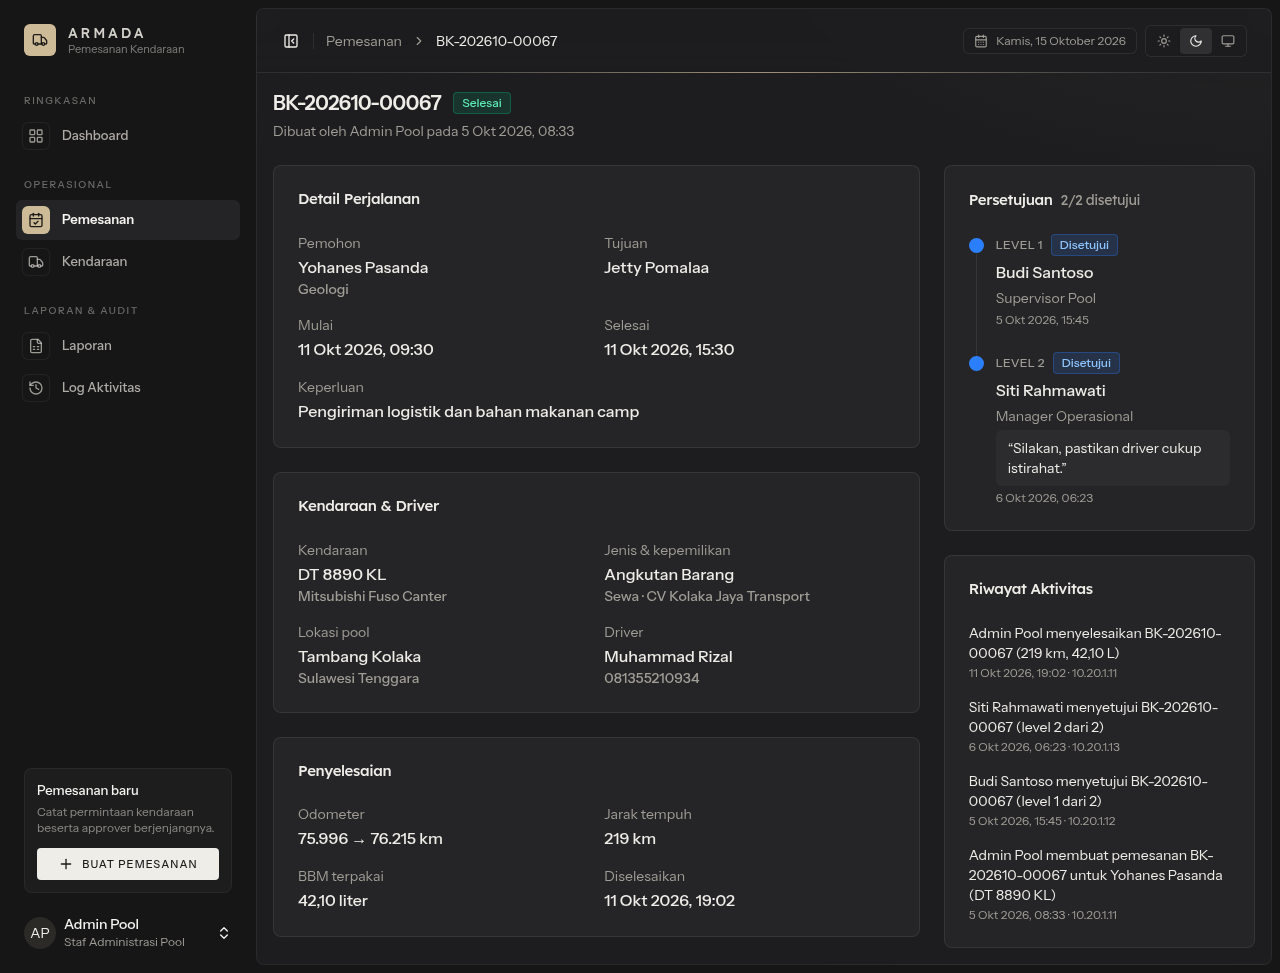
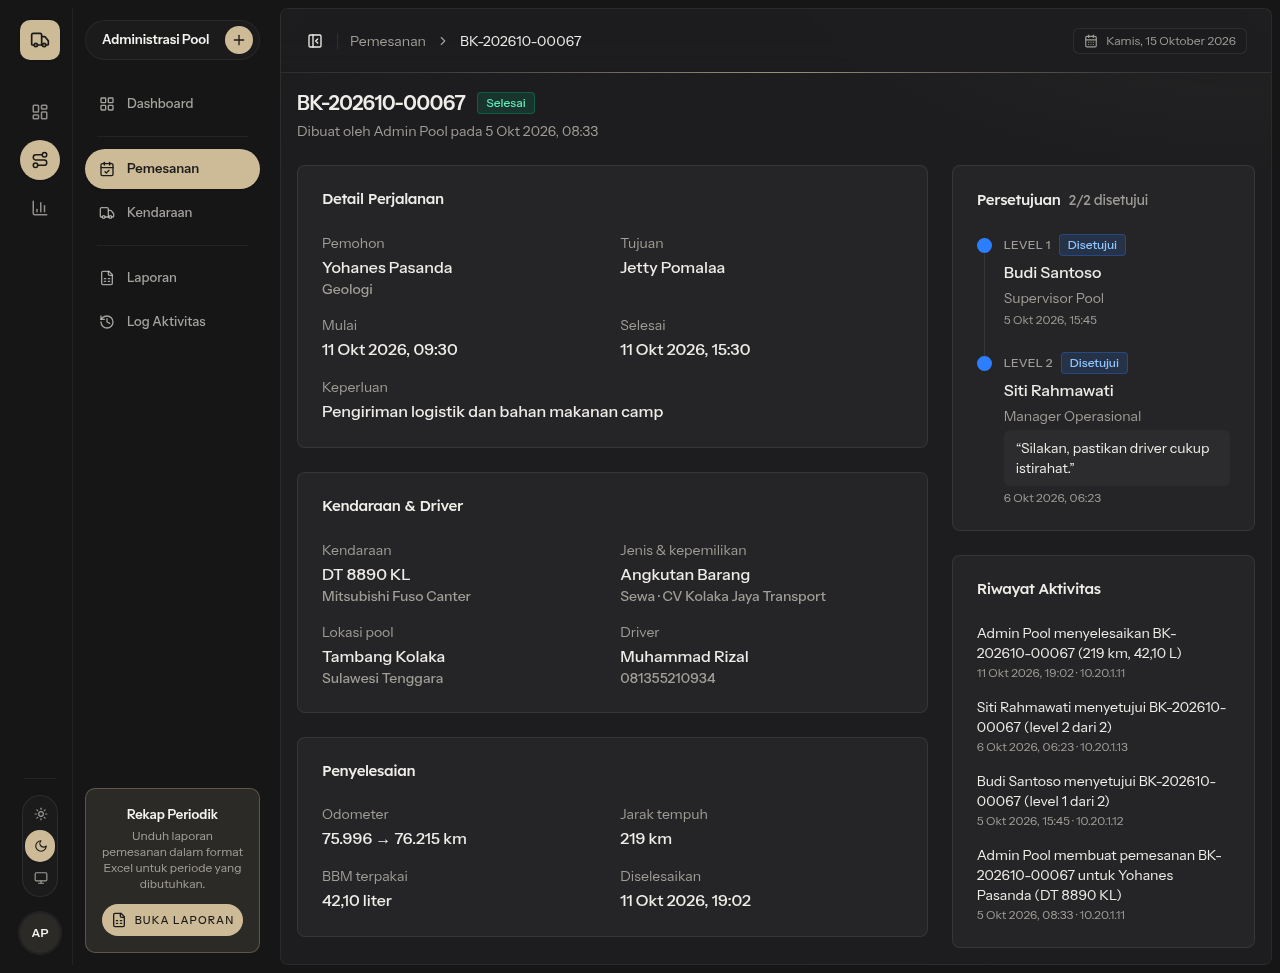
docs: align the readme and screenshots with the new sidebar and labels

diff --git a/README.md b/README.md
@@ -10,7 +10,7 @@ Dibuat sebagai technical test Fullstack Developer (Intern) dengan Laravel 13, In
 
 - **Dua role:** admin (pool) dan approver. Akun dibuat lewat seeder; registrasi publik tidak tersedia.
 - **Pemesanan** dengan approver berjenjang 2–5 level. Kendaraan yang sedang perawatan dan driver nonaktif ditolak, dan jadwal yang bentrok dengan pemesanan lain ditolak dengan pesan yang menyebut kode booking yang bentrok. Kode otomatis `BK-YYYYMM-NNNNN`.
-- **Persetujuan berjenjang:** inbox approver dengan tab _Menunggu Saya_, _Antrian_, dan _Riwayat_; setujui (catatan opsional) atau tolak (catatan wajib); badge jumlah approval yang menunggu di menu.
+- **Persetujuan berjenjang:** inbox approver dengan tab _Menunggu Saya_, _Antrean_, dan _Riwayat_; setujui (catatan opsional) atau tolak (catatan wajib); badge jumlah approval yang menunggu di menu.
 - **Pembatalan** dengan alasan, dan **penyelesaian** dengan odometer dan BBM yang sekaligus memperbarui odometer kendaraan.
 - **Dashboard** admin dan approver dengan filter tahun dan region: pemesanan per bulan per status, 10 kendaraan paling sering dipakai, komposisi jenis/kepemilikan, jarak tempuh dan konsumsi BBM per bulan, serta kendaraan yang perlu service. Setiap grafik juga punya tampilan tabel.
 - **Laporan periodik** dengan preset periode dan **export Excel** 2 sheet (_Pemesanan_ dan _Ringkasan_).
@@ -119,7 +119,7 @@ Data demo bisa direset kapan saja dengan `php artisan migrate:fresh --seed`. Tan
 
 | Menu              | Fungsi                                                                                                                                                                                                                                                                                                                                                                                                                              |
 | ----------------- | ----------------------------------------------------------------------------------------------------------------------------------------------------------------------------------------------------------------------------------------------------------------------------------------------------------------------------------------------------------------------------------------------------------------------------------- |
-| **Dashboard**     | Kartu ringkasan (total, menunggu persetujuan, disetujui, selesai bulan ini, kendaraan tersedia, service ≤ 14 hari), empat grafik, dan tabel kendaraan yang perlu service. Filter tahun dan region; ikon tabel di setiap kartu grafik menampilkan datanya sebagai tabel.                                                                                                                                                             |
+| **Dashboard**     | Kartu ringkasan (total, menunggu persetujuan, disetujui, selesai bulan ini, kendaraan tersedia, jatuh tempo servis), empat grafik, dan tabel jadwal servis terdekat. Filter tahun dan region; ikon tabel di setiap kartu grafik menampilkan datanya sebagai tabel.                                                                                                                                                                  |
 | **Pemesanan**     | Daftar dengan pencarian (kode, pemohon, plat), filter status, jenis kendaraan, region, dan rentang tanggal mulai. **Buat Pemesanan** membuka form 4 bagian: Data Pemohon, Detail Perjalanan, Kendaraan & Driver, Approver Berjenjang (tambah, hapus, naik/turun level). Halaman detail menampilkan timeline persetujuan, riwayat aktivitas, serta tombol **Batalkan** (dengan alasan) dan **Selesaikan** (dengan odometer dan BBM). |
 | **Laporan**       | Rentang tanggal wajib dengan preset _Bulan ini_, _Bulan lalu_, _3 bulan terakhir_, _Tahun ini_; filter status, jenis, region; kartu ringkasan; tabel pratinjau. **Export Excel** mengunduh `laporan-pemesanan_{dari}_{sampai}.xlsx` dengan filter yang sama.                                                                                                                                                                        |
 | **Log Aktivitas** | Filter pencarian, user, aksi, dan tanggal. Klik baris untuk melihat properties (JSON), user agent, dan tautan ke pemesanannya.                                                                                                                                                                                                                                                                                                      |
@@ -129,8 +129,8 @@ Data demo bisa direset kapan saja dengan `php artisan migrate:fresh --seed`. Tan
 
 | Menu                 | Fungsi                                                                                                                                                                                                                                                                      |
 | -------------------- | --------------------------------------------------------------------------------------------------------------------------------------------------------------------------------------------------------------------------------------------------------------------------- |
-| **Dashboard**        | Kartu _menunggu giliran saya_, _sudah saya setujui_, _sudah saya tolak_; lima approval terbaru yang menunggu; grafik pemesanan per bulan dan kendaraan terpopuler.                                                                                                          |
-| **Persetujuan**      | Tab _Menunggu Saya_ (giliran saat ini, jadwal terdekat lebih dulu), _Antrian_ (menunggu level sebelumnya), dan _Riwayat_. Tombol **Setujui** (catatan opsional) dan **Tolak** (catatan wajib) muncul hanya saat gilirannya. Badge di menu menunjukkan jumlah yang menunggu. |
+| **Dashboard**        | Kartu _Menunggu Keputusan_, _Telah Disetujui_, _Telah Ditolak_; lima approval terbaru yang menunggu; grafik pemesanan per bulan dan kendaraan terpopuler.                                                                                                                   |
+| **Persetujuan**      | Tab _Menunggu Saya_ (giliran saat ini, jadwal terdekat lebih dulu), _Antrean_ (menunggu level sebelumnya), dan _Riwayat_. Tombol **Setujui** (catatan opsional) dan **Tolak** (catatan wajib) muncul hanya saat gilirannya. Badge di menu menunjukkan jumlah yang menunggu. |
 | **Detail pemesanan** | Hanya pemesanan yang menjadikannya approver; tombol Setujui/Tolak juga tersedia di sini.                                                                                                                                                                                    |
 
 ## Skenario demo end-to-end
